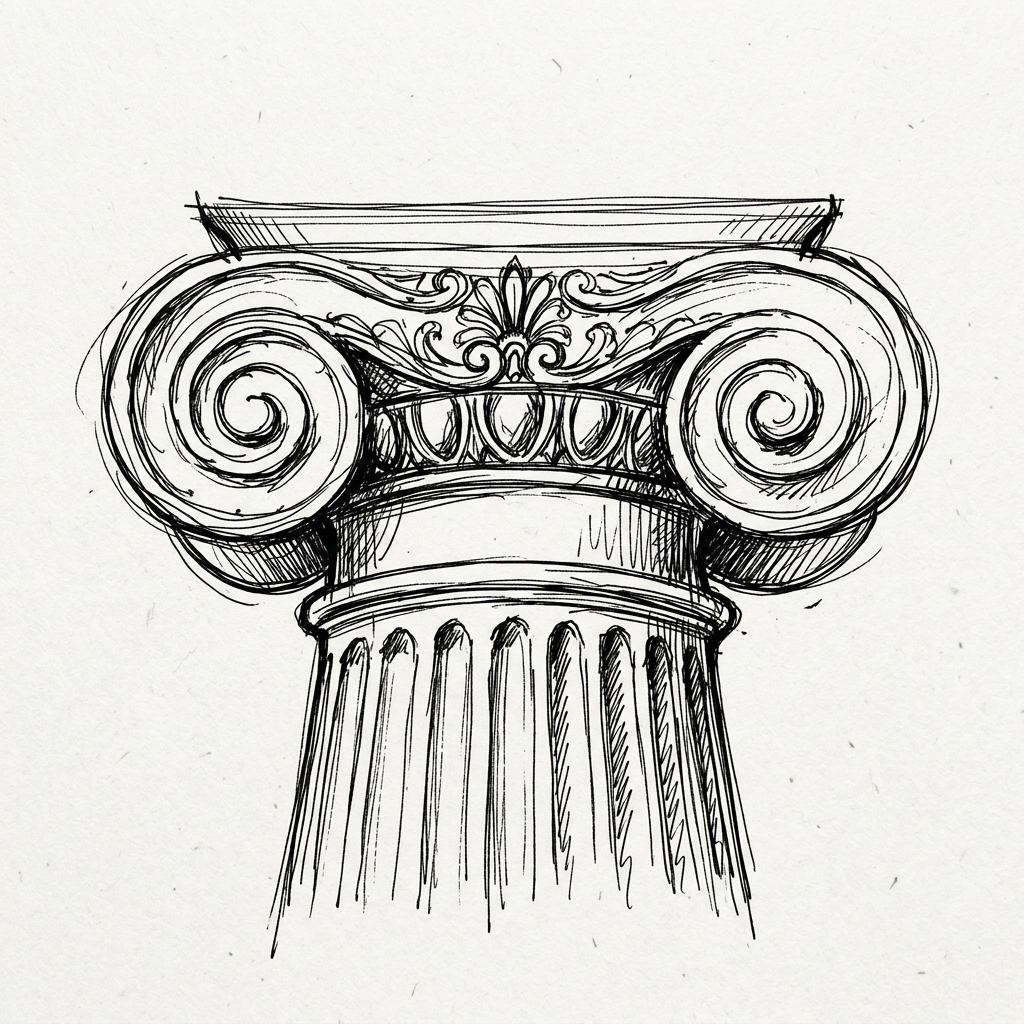
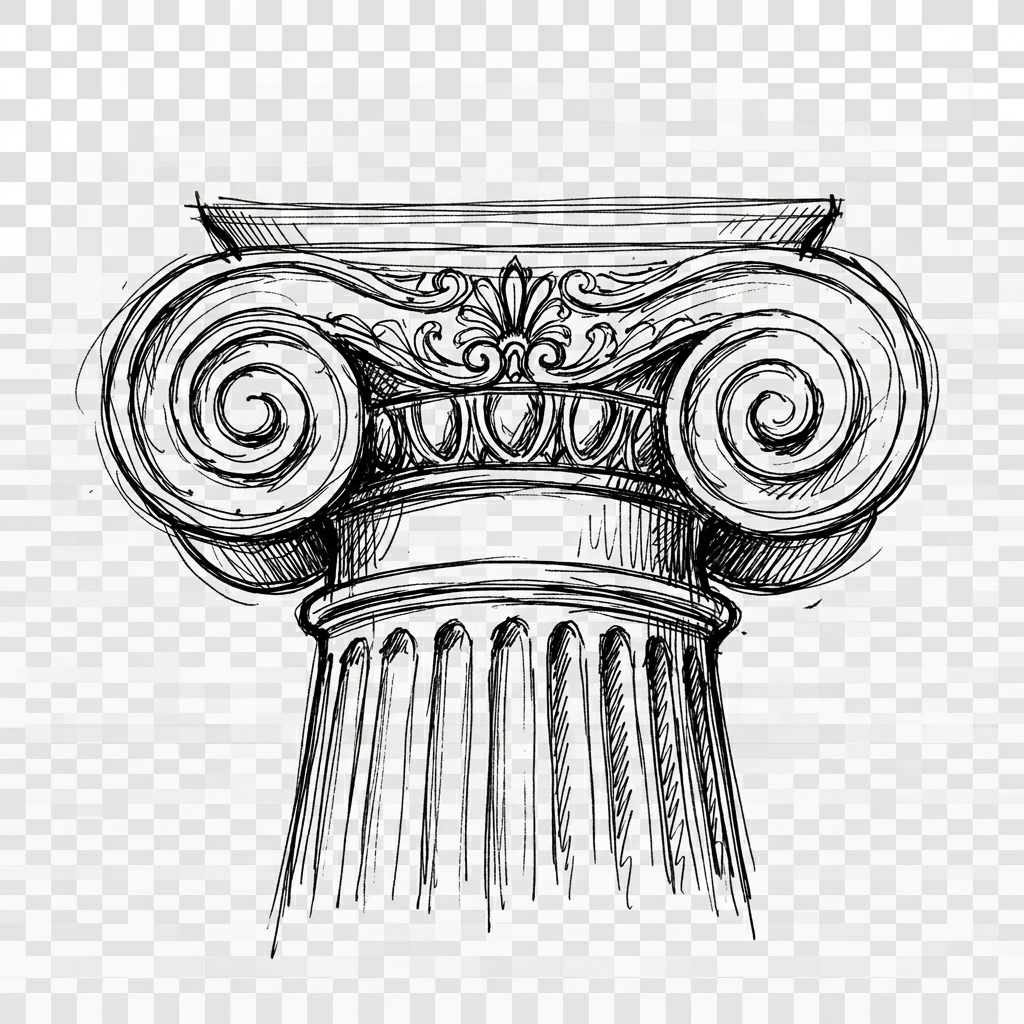
Replace ionic capital with transparent PNG version

diff --git a/styles.css b/styles.css
@@ -769,10 +769,9 @@ section { position: relative; }
     width: min(240px, 90%);
     height: auto;
     object-fit: contain;
-    filter: drop-shadow(0 4px 12px rgba(0,0,0,0.04));
-    mix-blend-mode: multiply; /* Makes white background transparent on light surface */
+    filter: drop-shadow(0 4px 12px rgba(0,0,0,0.08));
     transition: filter 0.6s ease, transform 0.6s ease;
-    opacity: 0.85;
+    opacity: 0.9;
 }
 
 .pilar:hover .pilar-img {